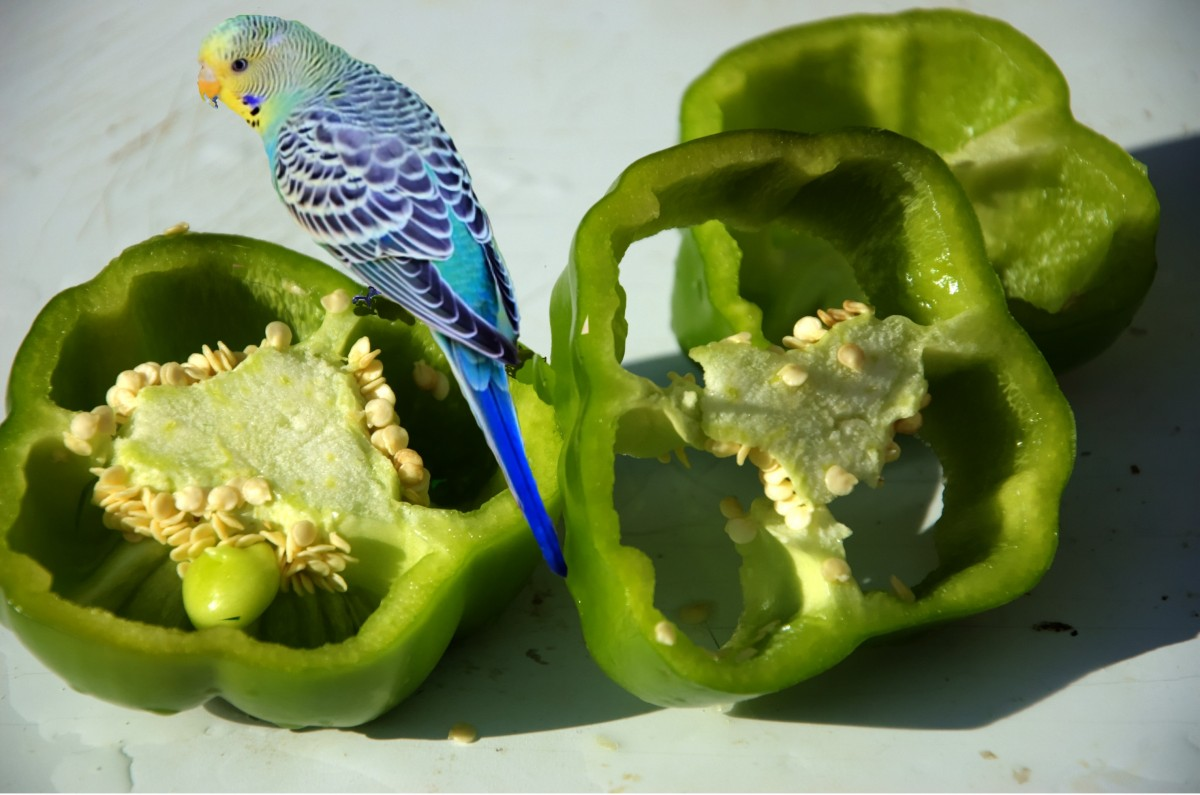
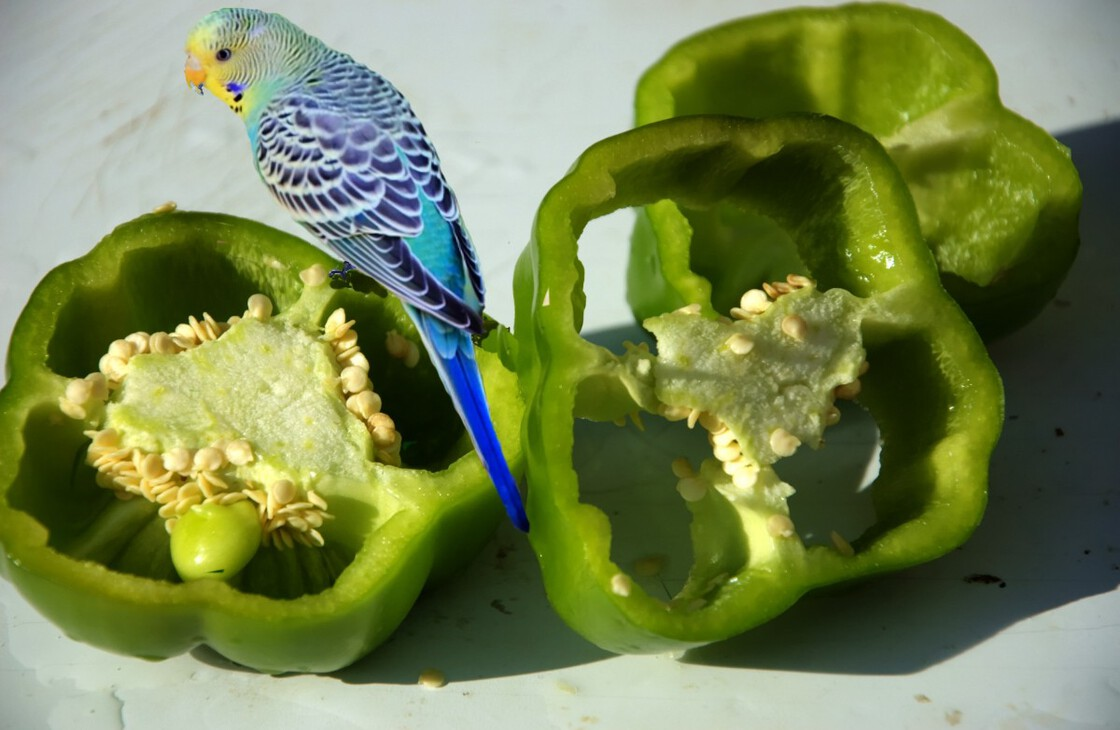
cssの調整

diff --git a/app/assets/stylesheets/application.scss b/app/assets/stylesheets/application.scss
@@ -1,17 +1,27 @@
 // Custom bootstrap variables must be set or imported *before* bootstrap.
 @import "bootstrap";
+
+
+
+
 body {
-  font-family: 'Noto Sans JP', sans-serif;
+  font-family: 'Noto Sans JP', -apple-system,BlinkMacSystemFont,"Helvetica Neue","Segoe UI","Hiragino Kaku Gothic ProN","Hiragino Sans","ヒラギノ角ゴ ProN W3","Arial","メイリオ","Meiryo",sans-serif;
   color: #455A64;
-  p, li, h1, h2 {
+  p, li, h1, h2, a {
     color: #455A64;
   }
-  a { color: #49b2c2 }
   .red {
     color: red;
   }
+  .material-icons-round {
+    font-size: 18px;
+    display: inline-flex;
+    vertical-align: middle;
+    color: #819ca0;
+  }
+
   #logo {
-    font-family: 'Paytone One', sans-serif;
+    font-family: 'Paytone One', -apple-system,BlinkMacSystemFont,"Helvetica Neue","Segoe UI","Hiragino Kaku Gothic ProN","Hiragino Sans","ヒラギノ角ゴ ProN W3","Arial","メイリオ","Meiryo",sans-serif;
   }
   .navbar {
     .navbar-nav {
@@ -77,11 +87,26 @@ img {
   background-color: #49b2c2;
 }
 .status {
-  background: #49b2c2;
   padding: 4px 6px;
   border-radius: 6px;
   color: #fff;
   display: inline-block;
+}
+.status_lost {
+  background: #9874cc;
+}
+.status_find {
+  background: #C4C36D;
+}
+.pet-unit {
+  margin-bottom: 1.4rem;
+  p { margin-bottom: 0.4rem; }
+  p.img-fluid {
+    margin-bottom: 0.8rem;
+  }
+  .pet_created_at {
+    font-size: 0.9rem;
+  }
 }
 
 .device-page {

diff --git a/app/uploaders/image_uploader.rb b/app/uploaders/image_uploader.rb
@@ -28,7 +28,7 @@ class ImageUploader < CarrierWave::Uploader::Base
   # end
 
   # Create different versions of your uploaded files:
-  process resize_to_fill: [1120, 700]
+  process resize_to_fill: [1120, 730]
 
   # Add a white list of extensions which are allowed to be uploaded.
   # For images you might use something like this:
